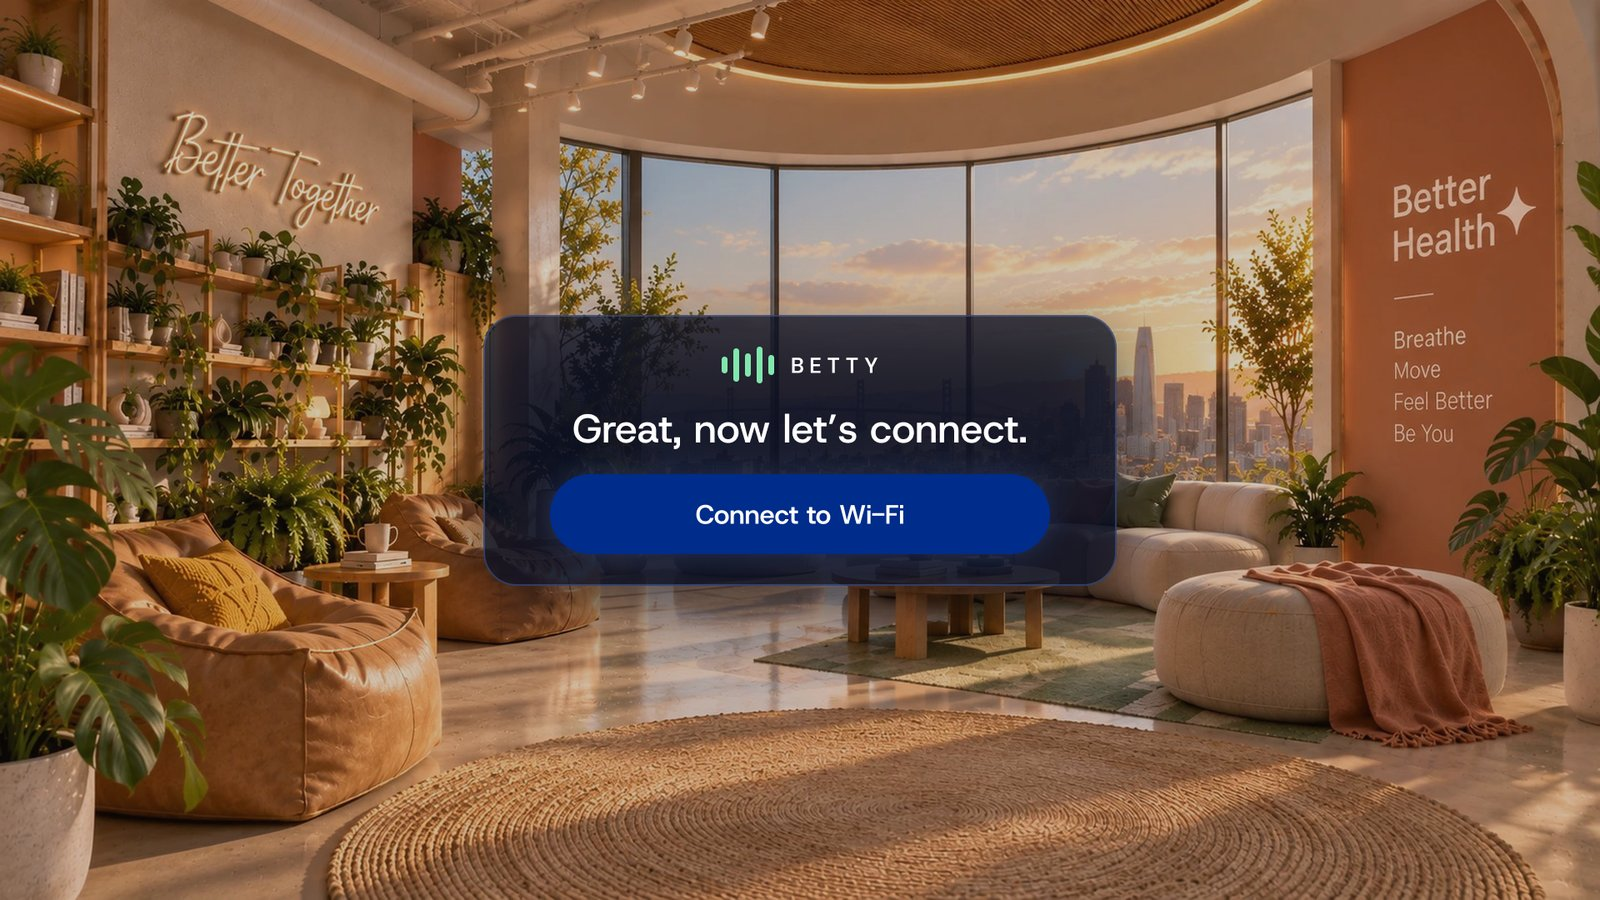
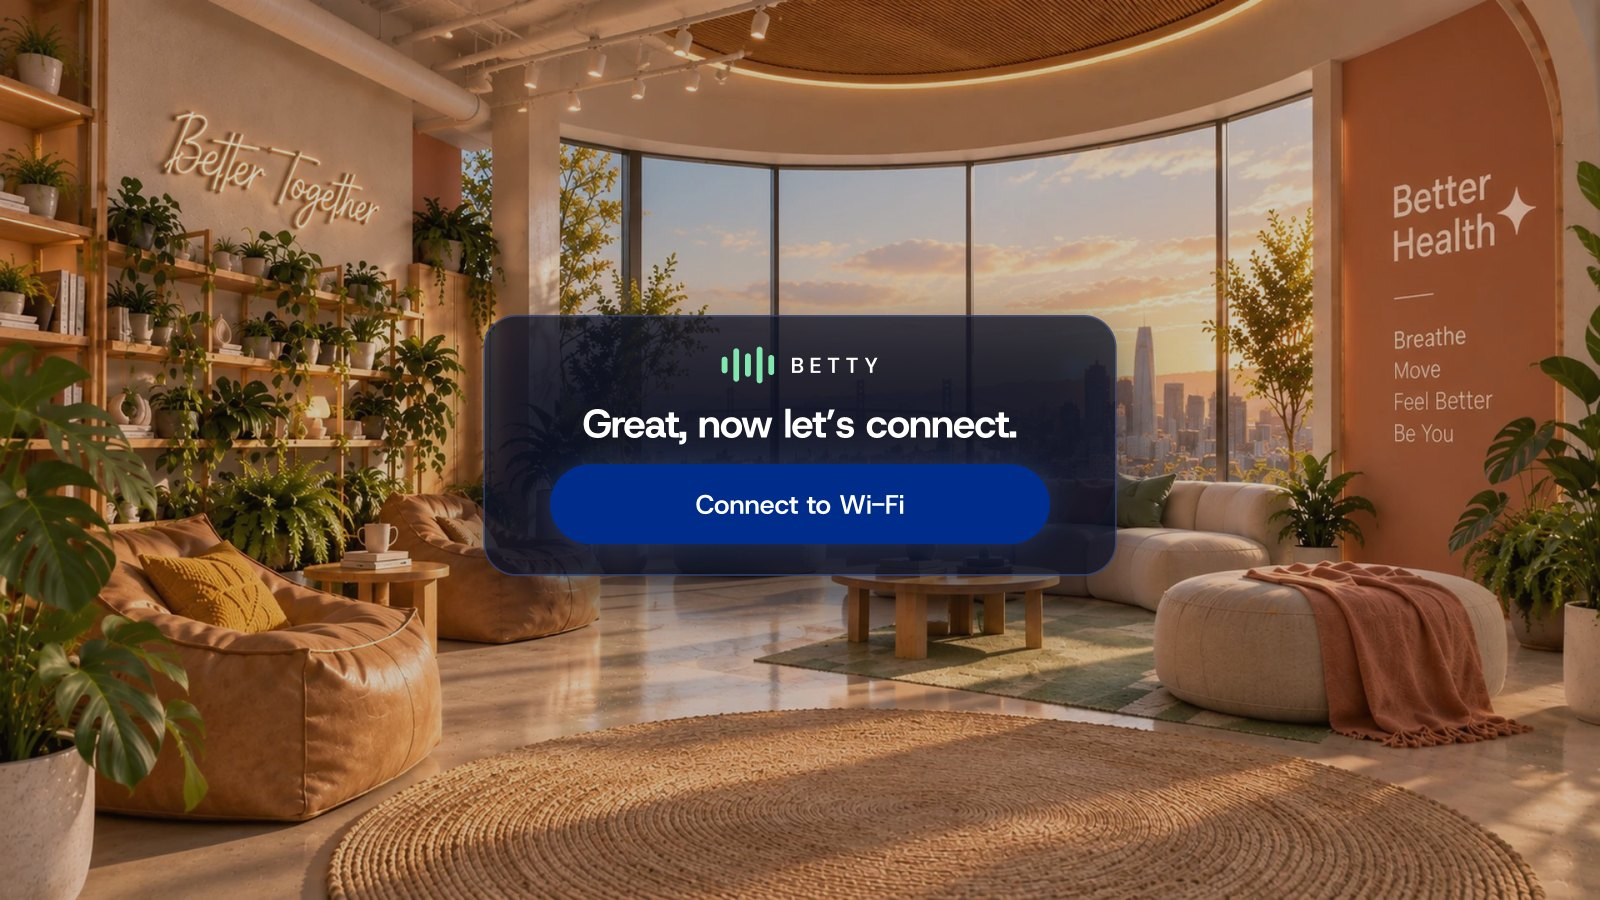
Update VR onboarding chapter with latest Figma designs and ownership copy
- Replace outdated in-headset screens with the latest Figma flow
  (Wi-Fi help path, preview, Betty and session questions, all set)
- Add controller guide screens and Q3; drop the OS permission dialog
- Add the full in-headset flow map (40+ screens and states)
- Clarify ownership in "Moving setup earlier" and in-headset onboarding
- Add status labels and accurate Pre-Arrival Guide implementation copy

Changed region(s): [[0.2812, 0.4356, 0.7188, 0.6533]]

diff --git a/src/sections/InHeadsetSection.jsx b/src/sections/InHeadsetSection.jsx
@@ -4,17 +4,14 @@ import ImageGallery from '../components/ImageGallery/ImageGallery';
 import StageLabel from '../components/StageLabel/StageLabel';
 import Caption from '../components/Caption/Caption';
 import { Highlight, HighlightQuote } from '../components/Highlight/Highlight';
+import { asset } from '../utils/asset';
+import styles from './InHeadsetSection.module.css';
 
 const opening = [
   {
     src: '/assets/final/01-brand.jpg',
     alt: 'Brand opening: Better Health, Your wellness, immersive',
     caption: 'Headset on: the brand holds the room while the app loads, then moves on by itself.',
-  },
-  {
-    src: '/assets/final/02a-permission.jpg',
-    alt: 'Headset system dialog asking to allow the app to find and connect to nearby devices',
-    caption: 'Wi-Fi readiness starts with the headset’s own permission dialog, owned by the operating system.',
   },
   {
     src: '/assets/final/02b-branch.jpg',
@@ -31,7 +28,7 @@ const helpPath = [
   },
   {
     src: '/assets/final/03-iphone-1.jpg',
-    alt: 'Step 1 of 5: First, open the Settings app on your iPhone',
+    alt: 'Betty, with a segmented progress bar: First, open the Settings app on your iPhone. Back / Done',
     caption: 'The guide’s own steps and wording, one instruction at a time, no scrolling.',
   },
   {
@@ -41,10 +38,28 @@ const helpPath = [
   },
 ];
 
+const controllerGuide = [
+  {
+    src: '/assets/final/06c-trigger.jpg',
+    alt: 'Controller guide, step 3 of 7: Squeeze the trigger, with the trigger highlighted on the controller',
+    caption: 'One control per step, with the control highlighted on the controller itself.',
+  },
+  {
+    src: '/assets/final/06e-press-a.jpg',
+    alt: 'Controller guide, step 5 of 7: Press A (Right Controller), with the A button highlighted',
+    caption: 'Each step names the exact button and which hand it is on.',
+  },
+  {
+    src: '/assets/final/06g-point.jpg',
+    alt: 'Controller guide, step 7 of 7: Point and press, with the controller aiming at a target',
+    caption: 'The last step brings the controls together: point at a target and press.',
+  },
+];
+
 const personalization = [
   {
     src: '/assets/final/07-betty.jpg',
-    alt: 'Betty: Great, you’re ready. Four short questions. There are no right or wrong answers.',
+    alt: 'Betty: Great, you’re ready. Now I’d like to get to know you a little, so we can personalize your experience. Four short questions, there are no right or wrong answers. Let’s go',
     caption: 'Betty frames what comes next: four short questions, no right or wrong answers.',
   },
   {
@@ -53,13 +68,13 @@ const personalization = [
     caption: 'What the member would most like to work on.',
   },
   {
-    src: '/assets/final/09-q2.jpg',
-    alt: 'Have you tried anything in the past that helped you feel better?',
-    caption: 'What has helped before.',
+    src: '/assets/final/10-q3.jpg',
+    alt: 'Where would you feel most comfortable starting? By the ocean, in nature, somewhere warm and peaceful, surprise me',
+    caption: 'Where they’d feel most comfortable starting.',
   },
   {
     src: '/assets/final/11-q4.jpg',
-    alt: 'One last question. How would you like to begin? Something gentle and easy, jump right in, a recommendation, no preference',
+    alt: 'How would you like to begin? Something gentle and easy, I’m ready to jump right in, I’d like you to recommend where to start, I don’t have a preference',
     caption: 'The pace they’d like to begin at. The same pattern throughout, with no new mechanics.',
   },
   {
@@ -72,17 +87,38 @@ const personalization = [
 export default function InHeadsetSection() {
   return (
     <CaseStudySection id="in-headset" label="In-headset onboarding">
+      <StageLabel>Designed · In development</StageLabel>
       <p>
-        I designed the in-headset onboarding flow. Earlier iterations kept more
-        of the setup inside the headset; research led us to move Wi-Fi
-        preparation earlier while keeping an in-headset fallback.
+        I defined and designed the in-headset onboarding: the overall flow, how
+        it behaves, and the UX/UI. That meant mapping every path a member could
+        take between putting on the headset and starting their first session,
+        including the states in between, the device-specific help paths, and
+        the points where a member who is stuck can recover and continue. I
+        worked through these decisions with the Head of Product, presenting
+        each direction, taking feedback, and iterating.
       </p>
+      <p>
+        Earlier iterations kept more of the setup inside the headset. With
+        Wi-Fi preparation moved earlier, the headset no longer has to carry the
+        whole setup, but it still has to work for members who never prepared.
+      </p>
+      <div className="stack-16">
+        <StageLabel>Final in-headset flow</StageLabel>
+        <div className={styles.mapScroll}>
+          <img
+            className={styles.map}
+            src={asset('/assets/final/flow-map.png')}
+            alt="Map of the in-headset onboarding: eight stages from the opening to the hand-off to PsyTechVR, and a help path with four device-specific step sequences that all return to the Wi-Fi connection screen"
+            loading="lazy"
+          />
+        </div>
+        <Caption>The complete in-headset flow: 40+ screens and states, including four device-specific help paths that all return to the same connection screen.</Caption>
+      </div>
 
       <h3>Opening and Wi-Fi readiness</h3>
       <p>
-        The flow opens on the Better Health brand while the app loads, then
-        asks for the headset&rsquo;s Wi-Fi permission. Betty follows with a
-        single question:{' '}
+        The flow opens on the Better Health brand while the app loads. Betty
+        then asks a single question:{' '}
         <Highlight>does the member have their Wi-Fi name and password ready?</Highlight>{' '}
         It asks what they need now, not whether they completed the Pre-Arrival
         Guide.
@@ -126,9 +162,10 @@ export default function InHeadsetSection() {
         <Caption>A member, during a recorded onboarding call</Caption>
       </div>
       <p>
-        So we brought a small taste of the experience forward. Right after the
+        So I brought a small taste of the experience forward. Right after the
         headset connects, a short preview shows the member where their sessions
-        will take them, before the flow asks for any more effort. The idea is{' '}
+        will take them, then moves on by itself, before the flow asks for any
+        more effort. The idea is{' '}
         <Highlight>value before questions:</Highlight> experience something
         first, then continue into the guided questions. It&rsquo;s a
         research-informed design decision, not a measured outcome, and the
@@ -136,18 +173,19 @@ export default function InHeadsetSection() {
       </p>
       <div className="stack-16">
         <StageLabel>Final flow &middot; Preview (video placeholder)</StageLabel>
-        <MediaFrame src="/assets/final/05-preview.jpg" alt="VR experience preview: This is where your sessions will take you" ratio={16 / 9} square />
+        <MediaFrame src="/assets/final/05-preview.jpg" alt="Placeholder for the VR experience preview film: a mountain landscape" ratio={16 / 9} square />
       </div>
 
       <p>
-        After the preview, the flow moves into the controller guide, a separate
-        interactive VR module where members practise using the controllers
-        themselves. It sits in the flow as a placeholder; the module itself is
-        not part of my design work.
+        After the preview, the flow moves into the controller guide: seven short
+        steps that teach the controls one at a time, from squeezing the trigger
+        to pointing and pressing. I designed the guidance screens and
+        integrated them into the onboarding flow; the interactive controller
+        module itself is being developed separately by Andrés.
       </p>
       <div className="stack-16">
-        <StageLabel>Placeholder &middot; Controller guide</StageLabel>
-        <MediaFrame src="/assets/final/06-controller.jpg" alt="Placeholder for the interactive controller guide" ratio={16 / 9} square />
+        <StageLabel>Final flow &middot; Controller guide</StageLabel>
+        <ImageGallery images={controllerGuide} ratio={16 / 9} border="none" square label="Controller guide" />
       </div>
 
       <h3>Betty and guided personalization</h3>

diff --git a/src/sections/OpportunitySection.jsx b/src/sections/OpportunitySection.jsx
@@ -35,11 +35,20 @@ export default function OpportunitySection() {
         over the phone.
       </p>
       <p>
-        Rather than relying only on guidance inside VR, we decided to{' '}
+        Seeing this pattern across the calls, I proposed moving Wi-Fi
+        preparation earlier in the journey: rather than relying only on
+        guidance inside VR,{' '}
         <Highlight>help members prepare before putting on the headset.</Highlight>{' '}
-        The Pre-Arrival Guide lets them find and save their Wi-Fi details on a
-        familiar device, so they can enter VR with the information already at
-        hand.
+        I brought this direction to the Head of Product, we reviewed it
+        together, and it was approved.
+      </p>
+      <p>
+        From there, I defined and designed how the solution would work,
+        including the flow and the fallback for members who don&rsquo;t yet
+        have their Wi-Fi details ready. The result was the Pre-Arrival Guide,
+        which lets members find and save those details on a familiar device
+        before entering VR. I kept iterating on it with feedback from the Head
+        of Product.
       </p>
       <p>
         This shaped a broader principle for the new onboarding: give members

diff --git a/src/sections/PreArrivalSection.jsx b/src/sections/PreArrivalSection.jsx
@@ -35,6 +35,7 @@ const moments = [
 export default function PreArrivalSection() {
   return (
     <CaseStudySection id="pre-arrival" label="Pre-Arrival Guide">
+      <StageLabel>Live in production</StageLabel>
       <p>
         I designed the Pre-Arrival Guide, a short mobile-first web experience
         that helps members find their Wi-Fi name and password before the
@@ -43,7 +44,11 @@ export default function PreArrivalSection() {
         have their details ready for setup.
       </p>
       <p>
-        <strong>Designed and implemented for member onboarding.</strong>
+        Beyond the Figma designs, I built an interactive, responsive prototype
+        of the guide in HTML, CSS and JavaScript with Claude Code, and
+        contributed it to the product repository through a GitHub pull
+        request. Better Health&rsquo;s engineering team built the production
+        version, which is now live for members.
       </p>
 
       <div className={styles.moments}>

diff --git a/src/sections/InHeadsetSection.module.css b/src/sections/InHeadsetSection.module.css
@@ -1,0 +1,19 @@
+/* Full flow map: column width on desktop; on narrow screens it keeps a
+   readable size and scrolls sideways instead of shrinking. */
+.mapScroll {
+  overflow-x: auto;
+  -webkit-overflow-scrolling: touch;
+}
+
+.map {
+  display: block;
+  width: 100%;
+  height: auto;
+}
+
+@media (max-width: 760px) {
+  .map {
+    width: 720px;
+    max-width: none;
+  }
+}

diff --git a/src/sections/HandoffSection.jsx b/src/sections/HandoffSection.jsx
@@ -29,7 +29,7 @@ export default function HandoffSection() {
 
       <h3>Status</h3>
       <p>
-        The Pre-Arrival Guide has been designed and implemented. The in-headset
+        The Pre-Arrival Guide is live in production. The in-headset
         onboarding experience has been fully designed and is currently in
         development.
       </p>
